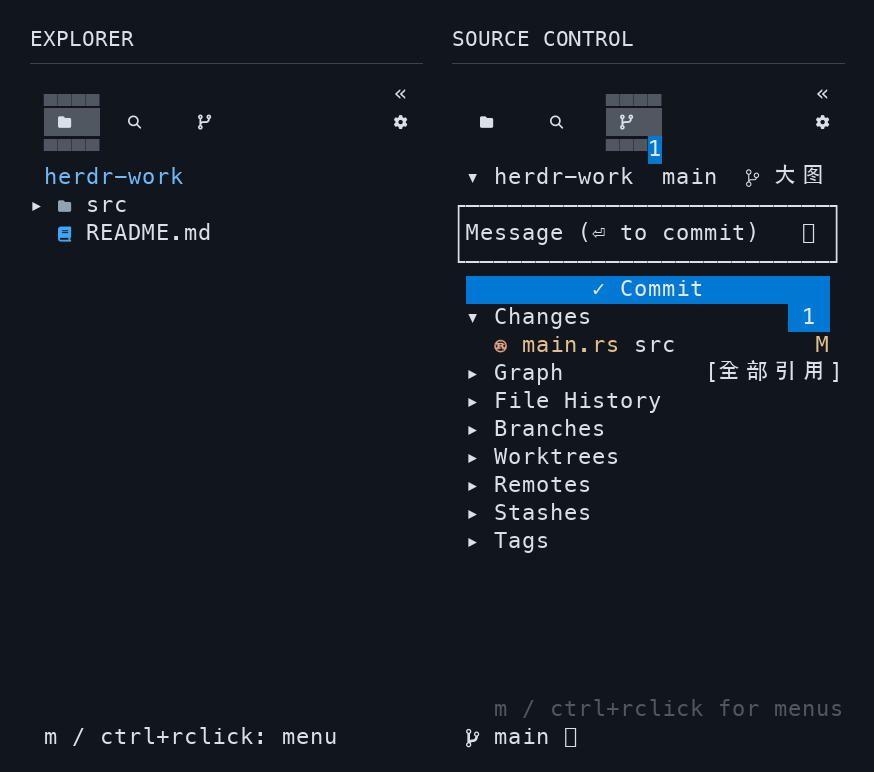
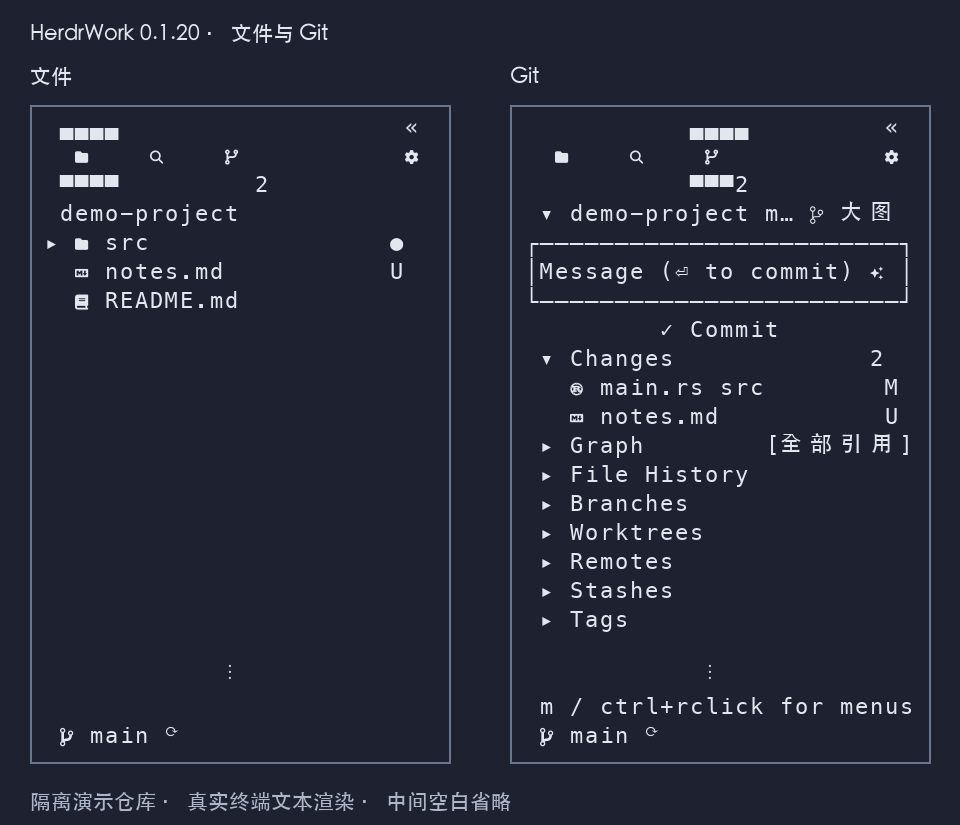
docs: 更新 README 与脱敏界面快照

diff --git a/scripts/render_readme_images.py b/scripts/render_readme_images.py
@@ -1,0 +1,72 @@
+"""Render the redacted terminal snapshots used in README (requires Pillow)."""
+import argparse
+import json
+from pathlib import Path
+import re
+import unicodedata
+
+from PIL import Image, ImageDraw, ImageFont
+
+ROOT = Path(__file__).resolve().parents[1]
+ASSETS = ROOT / 'docs/verification/assets'
+
+
+def render(font_path):
+    frames = json.loads((ASSETS / 'readme-ui-020.json').read_text())
+    icons = ImageFont.truetype(str(font_path), 22)
+    mono = ImageFont.truetype('/System/Library/Fonts/Menlo.ttc', 22)
+    symbols = ImageFont.truetype('/System/Library/Fonts/Apple Symbols.ttf', 22)
+    cjk = ImageFont.truetype('/System/Library/Fonts/STHeiti Medium.ttc', 22)
+    label = ImageFont.truetype('/System/Library/Fonts/STHeiti Medium.ttc', 21)
+    cell_w, cell_h = 15, 29
+    background, foreground, border = '#1d2130', '#e2e6ee', '#69768e'
+
+    def panel(draw, key, x, y, width, row_count=22):
+        frame = frames[key]
+        text = frame['text']
+        assert not re.search(r'/Users/|/home/|qihoo|JTStudio|@|(?:token|secret|password)\s*[:=]', text, re.I)
+        lines = text.splitlines()
+        rows = lines[:row_count - 4] + [''] + [' ' * ((width - 1) // 2) + '⋮'] + lines[-2:]
+        draw.rectangle((x, y, x + (width + 2) * cell_w, y + len(rows) * cell_h + 20), outline=border, width=2)
+        for row, line in enumerate(rows):
+            column = 0
+            for char in line:
+                if unicodedata.category(char) in ('Mn', 'Me', 'Cf'):
+                    continue
+                advance = 2 if unicodedata.east_asian_width(char) in ('W', 'F') else 1
+                if char.strip() and column + advance <= width:
+                    font = (cjk if '\u3400' <= char <= '\u9fff' else
+                            icons if unicodedata.category(char) == 'Co' else
+                            symbols if char in '⋮⟳' else mono)
+                    draw.text((x + (column + 1) * cell_w, y + row * cell_h + 8), char, font=font, fill=foreground)
+                column += advance
+
+    image = Image.new('RGB', (960, 825), background)
+    draw = ImageDraw.Draw(image)
+    draw.text((30, 22), 'HerdrWork 0.1.20 · 文件与 Git', font=label, fill=foreground)
+    for key, x, title in [('explorer', 30, '文件'), ('git', 510, 'Git')]:
+        draw.text((x, 65), title, font=label, fill=foreground)
+        frame = frames[key]
+        panel(draw, key, x, 105, frame['width'] - frame['border_columns'])
+    draw.text((30, 790), '隔离演示仓库 · 真实终端文本渲染 · 中间空白省略', font=label, fill='#adb7ca')
+    image.save(ASSETS / 'workbench.png', optimize=True)
+
+    image = Image.new('RGB', (810, 655), background)
+    draw = ImageDraw.Draw(image)
+    draw.text((30, 22), 'HerdrWork 0.1.20 · 折叠与展开', font=label, fill=foreground)
+    draw.text((30, 69), '内容 3 列', font=label, fill=foreground)
+    panel(draw, 'collapsed', 45, 110, 3, 16)
+    draw.text((230, 69), '展开后恢复原宽度', font=label, fill=foreground)
+    panel(draw, 'explorer', 230, 110, frames['explorer']['width'] - 2, 16)
+    draw.text((30, 605), '双边框总宽 5 列 · 按钮之间空一行 · 图标居中', font=label, fill='#adb7ca')
+    image.save(ASSETS / 'sidebar-width-095.png', optimize=True)
+    for name in ['workbench.png', 'sidebar-width-095.png']:
+        with Image.open(ASSETS / name) as result:
+            assert result.info == {}, 'Published PNG must not contain metadata'
+        print(name)
+
+
+if __name__ == '__main__':
+    parser = argparse.ArgumentParser(description=__doc__)
+    parser.add_argument('--font', type=Path, required=True, help='Path to a Nerd Font Mono TTF; macOS renderer')
+    render(parser.parse_args().font)

diff --git a/docs/verification/sidebar-collapse.md b/docs/verification/sidebar-collapse.md
@@ -54,13 +54,11 @@ git diff --check
 
 布局单元测试 29 项通过、1 项既有忽略；Code 折叠组件回归和 Python 61 项通过。补丁只在隔离测试版宿主验证，该基线验证时尚未切换用户宿主。
 
-![宽度复核](assets/sidebar-width-095.png)
-
 ## 一列折叠栏（0.1.18，2026-11-02）
 
 图标栏从四列内容压缩为一列，取消两侧边距。组件回归同时检查一列终端和四列 PTY：文件、搜索、Git、设置、展开与关闭按钮都位于第一列，右侧空白不参与点击；覆盖两种图标主题、左右停靠和视图/提交草稿恢复。
 
-实际宽度对比见上图：隔离宿主的布局与文本快照按等宽网格渲染，外框为 3 列、可见内容为 1 列，不包含用户资料。
+0.1.18 的隔离宿主布局与文本快照曾验证外框 3 列、可见内容 1 列；该历史布局已由下述清晰度调整取代。
 
 使用同一 0.9.5 补丁宿主的 12 组隔离场景全部通过，实测外框 3 列、内容 1 列；覆盖自动启动、显式打开、左右与嵌套停靠、已有侧栏复用、160/200 列窗口变化、展开恢复和关闭。随后已获用户授权切换本机宿主；重装并刷新自有侧栏后，实际布局核对为 3 列外框、1 列内容。已有工作窗格 ID 和当前 Agent 进程组保留，原宿主程序已备份。
 
@@ -81,3 +79,9 @@ macOS 候选曾在私有 PTY 用例清理阶段等待进程退出超时；清理
 用户实际窗口反馈确认，单字符文本图标过细难辨。当前恢复原 Material/Emoji 图标主题，三字符宽的单列图标栏统一居中，保留对称留白；取消暗化、使用主题前景色加粗。顶部展开和底部关闭按钮使用相同的居中区域。每个按钮占一行，按钮之间及顶部入口之后空一行，兼顾过疏与过密；间隔行不响应按钮点击。双边框下总宽五列。
 
 0.1.19 本机重装后检查：顶部 `»`、文件、搜索、Git、设置与底部 `×` 均在三字符内容区内居中；正常高度下活动图标位于第 3、5、7、9 行（从 1 计），按钮间与顶部入口之后各空一行，间隔行不响应点击。展开、重新折叠和定时检查通过，工作窗格与进程保留。根 workspace 593 项通过、4 项既有忽略；12 组真实隔离宿主场景通过。
+
+## 当前 README 图片（0.1.20）
+
+![当前折叠栏与展开栏](assets/sidebar-width-095.png)
+
+重新使用 0.1.20 正式程序在隔离宿主采集文件、Git 与折叠状态。图标居中，内容宽三列、双边框总宽五列，按钮之间空一行。上图为真实终端文本快照的脱敏渲染，中间空白省略；来源和重新渲染方式见 [README 图片记录](readme-images.md)。

diff --git a/docs/verification/readme-images.md b/docs/verification/readme-images.md
@@ -1,0 +1,28 @@
+# README 图片记录
+
+采集日期：2026-11-02。程序：HerdrWork 0.1.20，源码提交 `5875342ea400eebfa6796db141feafba6a314fbf`。平台：macOS Apple Silicon。
+
+## 来源与脱敏
+
+使用独立 Herdr 0.9.5 补丁宿主、PTY 和临时演示仓库运行正式程序，采集文件、Git 和折叠状态的真实 `pane.read` 文本。未连接或截取用户工作会话。
+
+演示仓库仅含 `src/main.rs`、`README.md` 和 `notes.md`，Git 身份使用演示占位符。快照仅保存侧栏内容，不包含宿主配置、个人路径、凭据、用户对话或终端提示符。PNG 不包含元数据。
+
+- [文件、Git 与折叠原始快照](assets/readme-ui-020.json)
+- [文件与 Git 图片](assets/workbench.png)
+- [折叠与展开图片](assets/sidebar-width-095.png)
+
+图片按等宽字符网格渲染，保留快照中的图标位置与按钮间隔，省略中间连续空白；采用统一配色，不代表终端原始主题。它们是终端文本快照图，不是桌面像素截图。
+
+## 检查与重新渲染
+
+本次私有宿主场景验证了完整高度停靠、三列内容加双边框、窗口变宽后的固定宽度、图标居中、展开恢复，以及关闭后工作分栏和进程保留。
+
+在 macOS 安装 Pillow 并准备 Nerd Font Mono 字体后，可从已脱敏快照重新渲染：
+
+```sh
+python3 scripts/render_readme_images.py --font /path/to/NerdFontMono-Regular.ttf
+git diff --check
+```
+
+渲染器仅读取仓库内固定快照，检查敏感文本并生成不含元数据的两张 PNG。更新程序后应重新采集快照，再渲染；不能只改图片上的版本标签。
